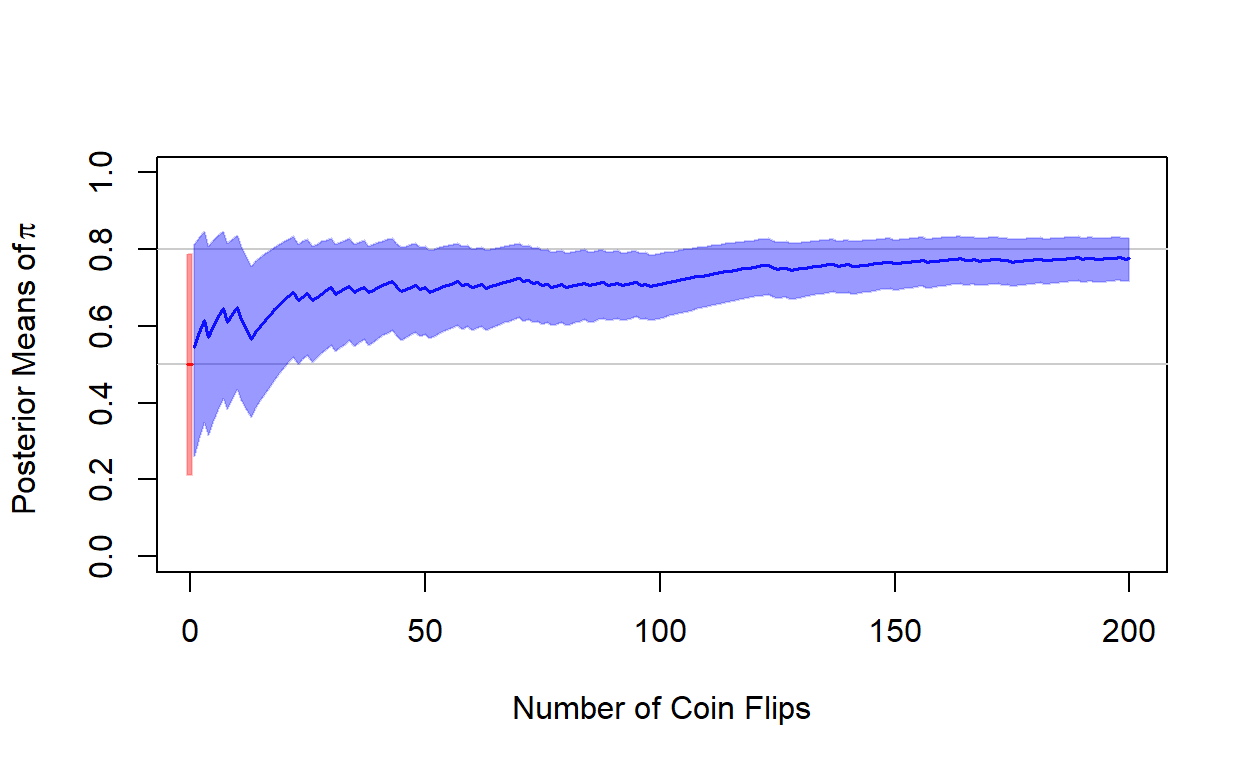
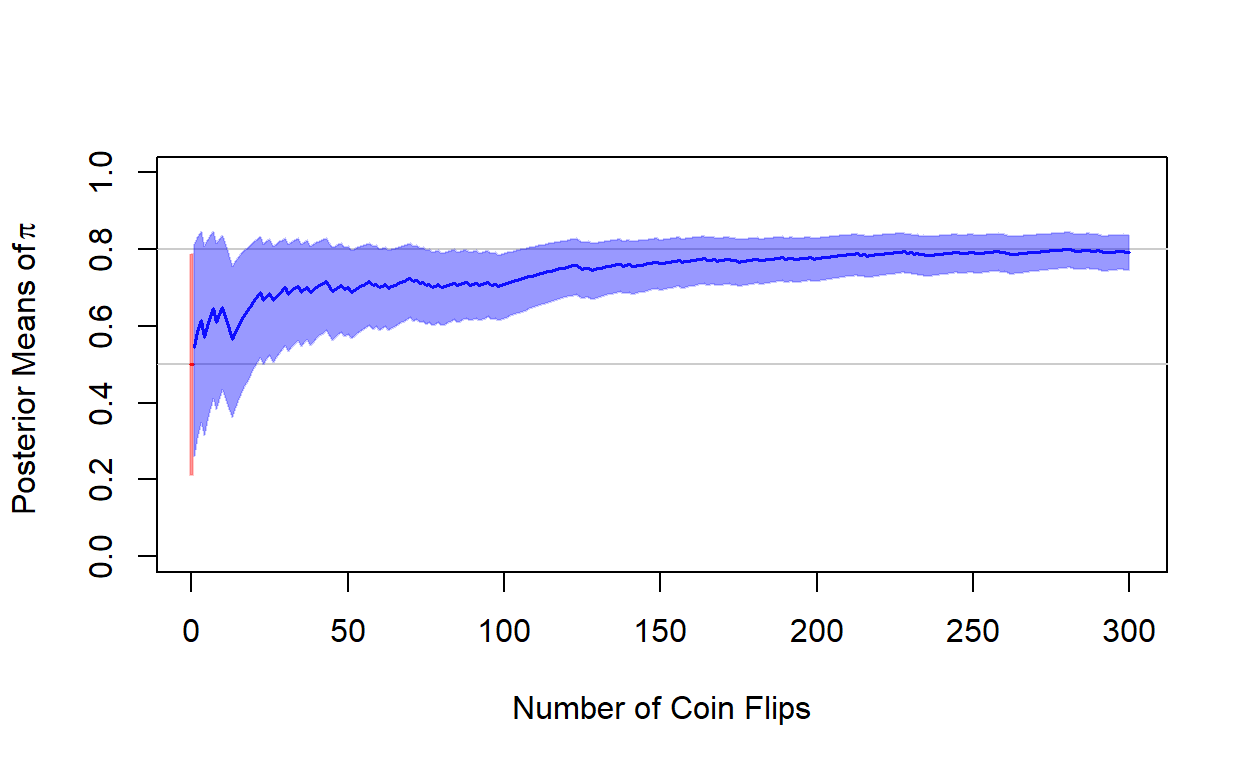
Updated materials session 3

diff --git a/inst/tutorials/03-lec/03-lec.html b/inst/tutorials/03-lec/03-lec.html
@@ -172,8 +172,8 @@ class="math inline">\(p(\mathbf{y}|\theta)\)</span>.</li>
 by:</li>
 </ul>
 <p><span class="math display">\[p(\mathbf{y}|\mu, \sigma) =
-\prod_{i=1}^{N} \frac{1}{\sigma \sqrt{2 \pi}} e^{- 0.5 \left( (y_i -
-\mu_i)^2 / \sigma \right)}\]</span></p>
+\prod_{i=1}^{N} \frac{1}{\sigma \sqrt{2 \pi}} \exp\left(- 0.5 \left(
+(y_i - \mu_i)^2 / \sigma \right) \right)\]</span></p>
 <ul>
 <li>This is what we mean mathematically when we use the shorthand
 <ul>
@@ -246,12 +246,12 @@ times:</p>
 <ul>
 <li>The fairness of a coin can be expressed through a <em>probability
 parameter</em>, <span class="math inline">\(\pi\)</span>, that governs
-the probability that a coin flip produces heads (H) has apposed to
-tails</li>
-<li>We start out with the believe that the coin is fair – that is, we
+the probability that a coin flip produces heads (1) has opposed to tails
+(0)</li>
+<li>We start out with the belief that the coin is fair – that is, we
 consider it more probable that the coin is fair (<span
 class="math inline">\(\pi \approx 0.5\)</span>) and less probable that
-it over-produces heads or tails</li>
+it systematically over-produces either heads or tails</li>
 <li>Unbeknownst to us, the coin is far from fair – it is 4 times as
 likely to produce heads as it is to produce tails (that is, <span
 class="math inline">\(\pi=0.8\)</span>)</li>
@@ -271,12 +271,15 @@ characterizing our prior beliefs: <span class="math inline">\(\pi \sim
 <li>Characterized by two shape parameters, <span
 class="math inline">\(a\)</span> and <span
 class="math inline">\(b\)</span></li>
+<li><span class="math inline">\(a\)</span> and <span
+class="math inline">\(b\)</span> are <em>hyperparameters</em>: Known (or
+chosen) arameters that characterize a prior distribution.</li>
 <li>Constrained support: <span class="math inline">\(\pi \in [0,
 1]\)</span></li>
 <li>pdf: <span class="math inline">\(p(\pi) = \frac{\pi^{a-1} (1-
 \pi)^{b-1}}{\text{B}(a, b)}\)</span></li>
 </ul>
-<p><img src="03-lec_files/figure-html/beta-1.png" width="864" style="display: block; margin: auto;" /></p>
+<p><img src="03-lec_files/figure-html/beta-1.png" width="576" style="display: block; margin: auto;" /></p>
 </div>
 <div id="section-analytical-form-likelihood" class="section level3">
 <h3>Analytical form: Likelihood</h3>
@@ -320,10 +323,16 @@ distribution with updated parameters</p>
 <li><span class="math inline">\(b^{\prime} = b+n-k-1\)</span></li>
 </ul>
 <p>This property is called <em>conjugacy</em>: Prior and posterior are
-in the same family.</p>
+of the same family.</p>
 <p>Now, take a moment to think about our analytical solution for the
-updated parameters. What does it take for the data to dominate the
-prior? What if the prior is weak? What if the prior is strong?</p>
+updated parameter:</p>
+<ul>
+<li>What does it take for the data to dominate the prior?</li>
+<li>What if the prior is weak (e.g., <span class="math inline">\(\pi
+\sim \text{beta}(1,1)\)</span>)?</li>
+<li>What if the prior is strong (e.g., <span class="math inline">\(\pi
+\sim \text{beta}(100,100)\)</span>)?</li>
+</ul>
 </div>
 <div id="section-simulation" class="section level3">
 <h3>Simulation</h3>
@@ -368,14 +377,14 @@ Code: Simulating the experiment
 len_pi &lt;- 1001L                      ### number of candidate values for pi
 pi &lt;- seq(0, 1, length.out = len_pi) ### candidate values for pi
 a &lt;- b &lt;- 5                          ### hyperparameters
-n &lt;- 200                             ### num. of coin flips
+n &lt;- 300                             ### num. of coin flips
 pi_true &lt;- .8                        ### true parameter
 data &lt;- rbinom(n, 1, pi_true)        ### n coin flips
 posterior &lt;- matrix(NA, 3L, n)       ### matrix container for posterior
 
 for (i in seq_len(n)) {    
-  current_sequenceuence &lt;- data[1:i]      ### sequence up until ith draw
-  k &lt;- sum(current_sequenceuence)         ### number of heads in current sequence
+  current_sequence &lt;- data[1:i]      ### sequence up until ith draw
+  k &lt;- sum(current_sequence)         ### number of heads in current sequence
   
   ##### Updating
   a_prime &lt;- a + k               
@@ -424,6 +433,9 @@ lines(
 )</code></pre>
 </details>
 <p><img src="03-lec_files/figure-html/coin-sim2-1.png" width="75%" style="display: block; margin: auto;" /></p>
+<p><em>Note:</em> After 300 coin flips, we have observed 241 heads,
+which is a proportion of 0.803. The posterior median is 0.794; the 95%
+credible interval is [0.747, 0.837].</p>
 </div>
 </div>
 </div>
@@ -449,9 +461,10 @@ uni-dimensional <em>parameter space</em>.</li>
 class="section level3">
 <h3>The limits of analytical Bayesian inference</h3>
 <ul>
-<li>Bayesian inference involves finding a <em>joint</em> posterior for
-<em>all</em> parameters in a model. We thus have a
-<em>multi-dimensional</em> parameter space.</li>
+<li>Even in only slightly more intricate applications, Bayesian
+inference involves finding a <em>joint</em> posterior for <em>all</em>
+parameters in a model, i.e., finding a <em>multi-dimensional</em>
+parameter space.</li>
 <li>Inference on single parameters from a joint multi-dimensional
 parameter space requires that we retrieve the marginal posterior
 distribution from the joint posterior distribution.</li>
@@ -459,12 +472,12 @@ distribution from the joint posterior distribution.</li>
 w.r.t. to a given a parameter gives the posterior distribution for that
 parameter. This requires <em>integrating</em> out all other
 parameters.</li>
-<li>For instance, when our joint posterior is <span
-class="math inline">\(p(\alpha,\beta, \gamma)\)</span>, we need to
-obtain each marginal posterior akin to <span
-class="math inline">\(p(\alpha) = \int_{\beta} \int_{\gamma}
+<li>For instance, when our joint posterior in a three-dimensional
+parameter space is <span class="math inline">\(p(\alpha,\beta,
+\gamma)\)</span>, we need to obtain each marginal posterior akin to
+<span class="math inline">\(p(\alpha) = \int_{\beta} \int_{\gamma}
 p(\alpha,\beta, \gamma) d\beta d\gamma\)</span></li>
-<li>For complex multi-dimensional posterior distributions, findings
+<li>For complex multi-dimensional posterior distributions, finding
 analytical solutions through integration becomes cumbersome, if not
 outright impossible.</li>
 </ul>
@@ -477,20 +490,22 @@ class="section level3">
 <ul>
 <li>MCMC are iterative computational processes that explore and describe
 a posterior distribution.</li>
+<li>Developed in the 1980s and popularized in the 1990s, MCMC algorithms
+quickly eliminated the need for analytical marginalizations of single
+parameters from joint multi-dimensional posteriors.</li>
+<li>The core idea:
+<ul>
 <li><em>Markov Chains</em> wander through, and take samples from, the
-parameter space.</li>
-<li>First developed in the 1980s and popularized in the 1990s, MCMC
-algorithms quickly eliminated the need for analytical marginalizations
-of single parameters from joint multi-dimensional posteriors.</li>
-<li>The core idea: Following an initial warmup period, the Markov Chains
+parameter space.Following an initial warmup period, the Markov Chains
 will converge to high-density regions of the underlying posterior
 distribution (ergodicity).</li>
-<li>The frequency of “steps” (iterations) in a given region of
-multidimensional parameter space gives a stochastic simulation of the
-posterior probability density.</li>
+<li>The proportion of “steps” in a given region of multidimensional
+parameter space gives a stochastic simulation of the posterior
+probability density.</li>
 <li>This yields a numerical approximation of the underlying posterior
 distribution, much like Monte Carlo simulations of MLE parameters yield
 numerical approximations of the underlying sampling distribution.</li>
+</ul></li>
 </ul>
 </div>
 <div id="section-some-mcmc-algorithms" class="section level3">
@@ -527,44 +542,34 @@ Reference Manual, Section 14.1</a> </sub></sup></p>
 </div>
 <div id="section-implementing-a-gibbs-sampler" class="section level2">
 <h2>Implementing a Gibbs sampler</h2>
-<div id="section-roadmap" class="section level3">
-<h3>Roadmap</h3>
+<div id="section-in-a-nutshell" class="section level3">
+<h3>In a nutshell</h3>
 <ul>
-<li>We will now apply an MCMC algorithm to a simple two-dimensional
-problem: Inference on the mean and variance parameters of the normal
-distribution.</li>
+<li>We want to perform inference on a variable <span
+class="math inline">\(y\)</span>, of which we have <span
+class="math inline">\(N\)</span> observations.</li>
+<li>We stipulate that the data-generating process that produces <span
+class="math inline">\(y\)</span> is normal: <span
+class="math inline">\(\mathbf{y} \sim \text{N}(\mu, \sigma^2)\)</span>.
+This yields a two-dimensional parameter space.</li>
+<li>For reasons of convenience, we parameterize the variance of this
+normal distribution in terms of its precision <span
+class="math inline">\(\tau = \frac{1}{\sigma^2}\)</span>, not in terms
+of its standard deviation or variance.</li>
+<li>Note, however, that <code>rnorm()</code> in R uses the standard
+deviation, which is <code>sqrt(1 / tau)</code>.</li>
 <li>We will use a <em>Gibbs sampler</em>. Remember that Gibbs draws
 iteratively and alternatively from the conditional conjugate
 distribution of each parameter.</li>
 <li>We thus need some analytical preliminaries: Namely, analytical forms
 for the posterior distributions of the two parameters from whose
 marginal posteriors we would like to sample.</li>
-<li>Note that this does <em>not</em> involve marginalizing out the
-“unwanted” parameters; instead, we express the posterior as conditional
-(i.e., joint) functions of <span class="math inline">\(\mu\)</span> and
-<span class="math inline">\(\sigma^2\)</span>:
-<ul>
-<li><span class="math inline">\(p(\mu | \theta, \omega, \sigma,
-\mathbf{y})\)</span></li>
-<li><span class="math inline">\(p(\sigma | \alpha, \beta, \mu,
-\mathbf{y})\)</span></li>
-</ul></li>
-</ul>
-</div>
-<div id="section-in-a-nutshell" class="section level3">
-<h3>In a nutshell</h3>
-<ul>
-<li>We want to perform inference on a variable <span
-class="math inline">\(\mathbf{y}\)</span>, of which we have <span
-class="math inline">\(N\)</span> observations.</li>
-<li>We stipulate that the data-generating process that produces <span
-class="math inline">\(\mathbf{y}\)</span> is normal: <span
-class="math inline">\(\mathbf{y} \sim \text{N}(\mu,
-\sigma^2)\)</span>.</li>
-<li>For reasons of convenience, we parameterize the variance of this
-normal distribution in terms of its precision <span
-class="math inline">\(\tau = \frac{1}{\sigma^2}\)</span>, not in terms
-of its standard deviation or variance.</li>
+<li>This will <em>not</em> involve marginalizing out the “unwanted”
+parameters; instead, we will derive the posteriors of <span
+class="math inline">\(\mu\)</span> and <span
+class="math inline">\(\tau\)</span> as conditional functions of <span
+class="math inline">\(\tau\)</span> and <span
+class="math inline">\(\mu\)</span>, respectively</li>
 </ul>
 </div>
 <div id="section-application" class="section level3">
@@ -579,14 +584,18 @@ electorate</li>
 <li>But we know that individual support is measured on a -5 to 5
 scale</li>
 <li>Our prior belief for <span class="math inline">\(\mu\)</span> should
-thus be agnostic as to whether people like or dislike the AfD, but
+thus be agnostic as to whether people like or dislike the AfD and
 sufficiently vague to allow for the possibility that we may be wrong:
-<span class="math inline">\(\mu \sim \text{N}(\theta = 0, \sigma^2 =
-10)\)</span></li>
-<li>Our prior belief for <span class="math inline">\(\sigma^2 =
-\frac{1}{\tau}\)</span> will also be vague: <span
-class="math inline">\(\tau \sim \Gamma(\alpha = 20, \beta =
-200)\)</span></li>
+<span class="math inline">\(\mu \sim \text{N}(\theta = 0, \omega^{-1} =
+10)\)</span> (mean <span class="math inline">\(\theta\)</span> and
+precision <span class="math inline">\(\omega\)</span> are
+hyperparameters for the prior of <span
+class="math inline">\(\mu\)</span>)</li>
+<li>Our prior belief for <span class="math inline">\(\tau\)</span> will
+also be vague: <span class="math inline">\(\tau \sim \Gamma(\alpha = 20,
+\beta = 200)\)</span> (shape <span class="math inline">\(\alpha\)</span>
+and rate <span class="math inline">\(\beta\)</span> are hyperparameters
+for the prior of <span class="math inline">\(\tau\)</span>)</li>
 <li>We have no prior belief about the dependence of both parameters and
 hence specify independent prior distributions</li>
 </ul></li>
@@ -595,11 +604,12 @@ hence specify independent prior distributions</li>
 <div id="section-analytical-preliminaries-mu" class="section level3">
 <h3>Analytical preliminaries: <span
 class="math inline">\(\mu\)</span></h3>
-<p>Our prior belief that <span class="math inline">\(\mu\)</span> is
+<p>Our prior belief is that <span class="math inline">\(\mu\)</span> is
 distributed normal with mean <span class="math inline">\(\theta =
 0\)</span> and precision <span class="math inline">\(\omega =
-.1\)</span>, i.e., <span class="math inline">\(\mu \sim \text{N}(0,
-10)\)</span>. Hence, the prior pdf is given by:</p>
+.1\)</span>:</p>
+<p><span class="math display">\[\mu \sim \text{N}(0, 10)\]</span></p>
+<p>The prior pdf is given by:</p>
 <p><span class="math display">\[
 p(\mu | \theta, \omega) = \sqrt{\frac{\omega}{2 \pi}} \exp \left
 (-\frac{\omega (\mu - \theta)^2}{2} \right)
@@ -618,14 +628,13 @@ p(\mu | \theta, \omega, \tau, \mathbf{y}) \propto \exp
 \left(-\frac{\omega + N \tau}{2}  \left(\mu - \frac{\omega \theta + N
 \tau \bar{y}}{\omega + N \tau}\right)^2 \right)
 \]</span></p>
-<p>We recognize this as the normal pdf with mean <span
+<p>We recognize this as the normal pdf with updated mean parameter <span
 class="math inline">\(\theta^{\ast} = \frac{\omega \theta + N \tau
-\bar{y}}{\omega + N \tau}\)</span> and precision <span
+\bar{y}}{\omega + N \tau}\)</span> and updated precision parameter <span
 class="math inline">\(\omega^{\ast} = \omega + N \tau\)</span>.</p>
 <p>This gives us the required analytical solutions for the normal
 parameters that characterize the posterior density of <span
-class="math inline">\(\mu\)</span> that we want our Gibbs sampler to
-explore.</p>
+class="math inline">\(\mu\)</span>.</p>
 </div>
 <div id="section-analytical-preliminaries-tau" class="section level3">
 <h3>Analytical preliminaries: <span
@@ -899,7 +908,7 @@ for (i in seq_len(nrow(draws_posterior))) {
       ylim = range(draws_posterior[, 2]),
       main = &quot;Exploration of the joint posterior&quot;,
       xlab = expression(mu),
-      ylab = expression(sigma),
+      ylab = expression(sigma ^ 2),
       col = NA,
       bg = adjustcolor(&quot;red&quot;, alpha.f = 0.25)
     )
@@ -944,9 +953,8 @@ can never know a priori if and when a chain has converged to its target
 distribution. We must thus rely on <em>convergence diagnostics</em>.</p>
 <p><em>Important:</em> Convergence diagnostics cannot show or prove
 convergence. They can only show signs of non-convergence!</p>
-<p>To be conclude that the post-warmup draws of our sampler in fact
-explore the target distribution, we want to show at least two
-things:</p>
+<p>To conclude that the post-warmup draws of our sampler in fact explore
+the target distribution, we want to show at least two things:</p>
 <ol style="list-style-type: decimal">
 <li>Every chain is in a stationary state (i.e., does not “wander off”
 the target distribution)</li>
@@ -1145,7 +1153,7 @@ interval around the sample for each of them, these confidence intervals
 would contain the <em>true</em> population mean 95% of the time. Given
 this long-run frequency, we are 95% confident that the specific 95%
 confidence intervals from our singular sample contains the true
-population parameter” (yeah, right…).</li>
+population parameter…”.</li>
 </ul></li>
 </ul>
 </div>
@@ -1154,9 +1162,9 @@ class="section level4">
 <h4>Finite-sample and asymptotic properties</h4>
 <ul>
 <li>Bayesian inference allows for exact inference in finite-sample
-applications where the asymptotic properties of MLE estimators (normal
-approximation, etc.)…</li>
-<li>…but posterior distribution do often asymptotically converge to the
+applications where the asymptotic properties of MLE estimators are
+implausible (normal approximation, etc.)…</li>
+<li>…yet, posterior distribution often asymptotically converge to the
 sampling distribution of MLE estimators (<a
 href="https://en.wikipedia.org/wiki/Bernstein%E2%80%93von_Mises_theorem">Bernstein-von-Mises
 Theorem</a>)</li>
@@ -1172,9 +1180,9 @@ makes Bayesian approaches incredibly flexible and allows for
 computationally reliable estimation of complex, analytically intractable
 marginal likelihoods (avoids integration of super high-dimensional
 integrals)…</li>
-<li>…but also comes with the necessity of high computational resources,
-long computation times, and extensive convergence diagnosis and model
-checking</li>
+<li>…but sometimes comes with the necessity of high computational
+resources and/or long computation times, and always necessitates
+convergence diagnosis and model checking</li>
 </ul>
 <p>
 <script type="application/shiny-prerendered" data-context="server-start">
